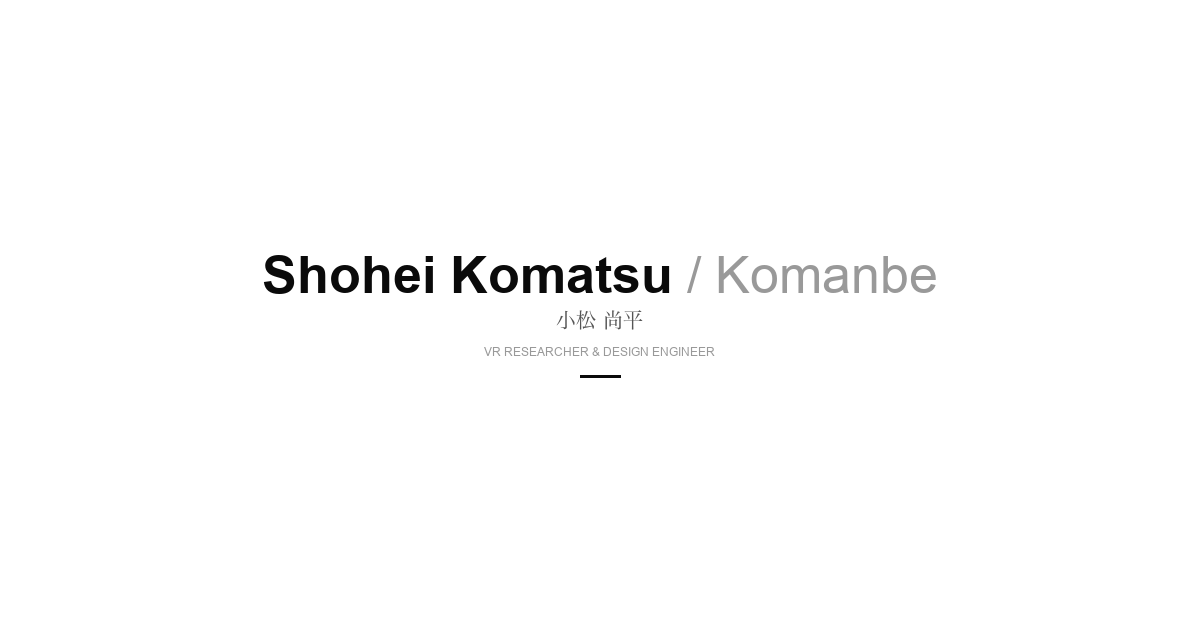
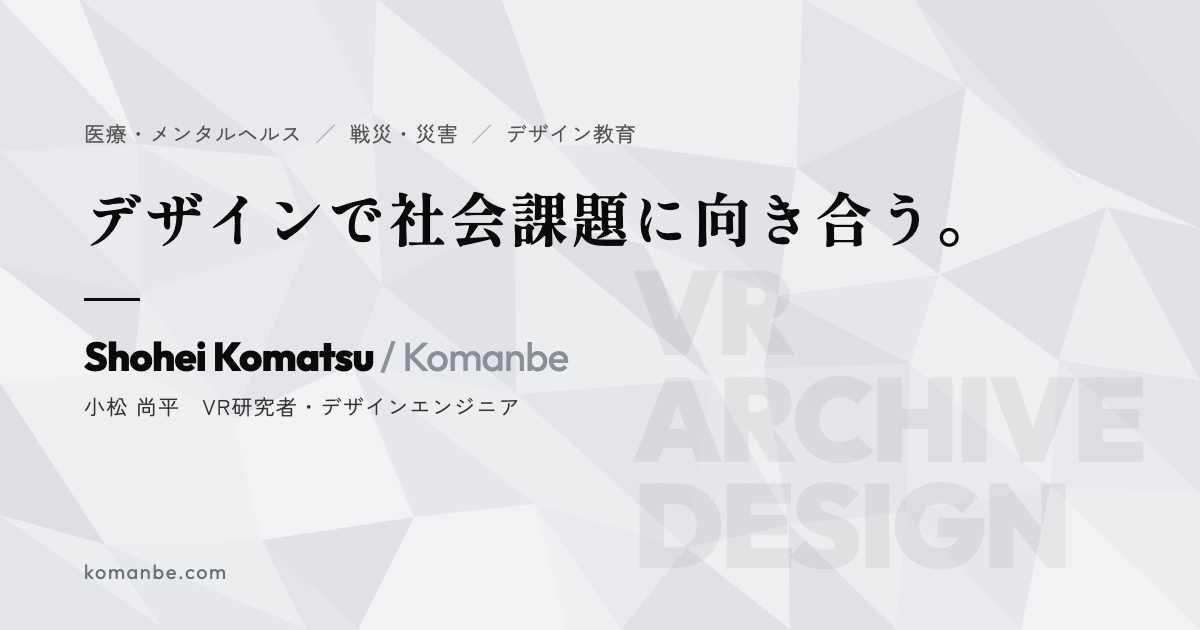
New OGP images and descriptions

diff --git a/index.html b/index.html
@@ -4,19 +4,22 @@
 <meta charset="UTF-8">
 <meta name="viewport" content="width=device-width, initial-scale=1.0">
 <title>小松尚平 / Shohei Komatsu — VR研究者 / デザインエンジニア</title>
-<meta name="description" content="小松尚平（こまつしょうへい）— VR研究者・デザインエンジニア。東京大学特任研究員／高知大学医学部特任講師／BiPSEE CPO。医療・メンタルヘルス・戦災・災害の領域でVR・AIを活用した研究開発。VRデジタル療法・戦災VR。">
+<meta name="description" content="小松尚平（VR研究者・デザインエンジニア）。東京大学大学院 情報学環 特任研究員。医療・メンタルヘルス、戦災・デジタルアーカイブの研究開発と、デザインの実践・教育に取り組んでいます。">
 <meta name="keywords" content="小松尚平,Shohei Komatsu,komanbe,VR研究者,デザインエンジニア,VRデジタル療法,戦災VR,東京大学,高知大学,BiPSEE,デザインシップ,VR Digital Therapeutics,War Damage VR">
-<meta property="og:title" content="小松尚平 / Shohei Komatsu — VR Researcher & Design Engineer">
-<meta property="og:description" content="小松尚平 — VR研究者 / デザインエンジニア。東京大学特任研究員。医療・メンタルヘルス・戦災・災害の領域でVR・AIを活用した研究開発。">
-<meta property="og:image" content="https://komanbe.com/ogp.png">
+<meta property="og:title" content="小松尚平 / Shohei Komatsu — デザインで社会課題に向き合う">
+<meta property="og:description" content="小松尚平（VR研究者・デザインエンジニア）。東京大学大学院 情報学環 特任研究員。医療・メンタルヘルス、戦災・デジタルアーカイブの研究開発と、デザインの実践・教育に取り組んでいます。">
+<meta property="og:image" content="https://komanbe.com/ogp.png?v=2">
+<meta property="og:image:width" content="1200">
+<meta property="og:image:height" content="630">
+<meta property="og:image:alt" content="デザインで社会課題に向き合う。Shohei Komatsu / Komanbe">
 <meta property="og:url" content="https://komanbe.com/">
 <meta property="og:type" content="website">
 <meta property="og:site_name" content="小松尚平 / Shohei Komatsu">
 <meta property="og:locale" content="ja_JP">
 <meta name="twitter:card" content="summary_large_image">
-<meta name="twitter:title" content="小松尚平 / Shohei Komatsu — VR Researcher & Design Engineer">
-<meta name="twitter:description" content="小松尚平 — VR研究者 / デザインエンジニア。東京大学特任研究員。医療・メンタルヘルス・戦災・災害の領域でVR・AIを活用した研究開発。">
-<meta name="twitter:image" content="https://komanbe.com/ogp.png">
+<meta name="twitter:title" content="小松尚平 / Shohei Komatsu — デザインで社会課題に向き合う">
+<meta name="twitter:description" content="小松尚平（VR研究者・デザインエンジニア）。東京大学大学院 情報学環 特任研究員。医療・メンタルヘルス、戦災・デジタルアーカイブの研究開発と、デザインの実践・教育に取り組んでいます。">
+<meta name="twitter:image" content="https://komanbe.com/ogp.png?v=2">
 <link rel="canonical" href="https://komanbe.com/">
 <script type="application/ld+json">
 {"@context":"https://schema.org","@type":"Person","name":"小松尚平","alternateName":["Shohei Komatsu","komanbe"],"url":"https://komanbe.com/","jobTitle":["VR研究者","デザインエンジニア","東京大学 特任研究員","高知大学医学部 特任講師","BiPSEE CPO"],"affiliation":[{"@type":"Organization","name":"東京大学"},{"@type":"Organization","name":"高知大学医学部"},{"@type":"Organization","name":"BiPSEE"},{"@type":"Organization","name":"デザインシップ"}],"sameAs":["https://x.com/komanbe","https://www.linkedin.com/in/komanbe/","https://researchmap.jp/komanbe","https://scholar.google.com/citations?user=v5U4ES4AAAAJ","https://www.instagram.com/komanbe/","https://www.facebook.com/komanbe/","https://note.com/komanbe430","https://www.threads.com/@komanbe"],"knowsAbout":["VR Digital Therapeutics","War Damage VR","Information Design","XR Experience Design"],"image":"https://komanbe.com/ogp.png"}

diff --git a/wardamagevr/index.html b/wardamagevr/index.html
@@ -5,6 +5,18 @@
 <meta name="viewport" content="width=device-width, initial-scale=1.0">
 <title>戦災VR — Shohei Komatsu</title>
 <meta name="description" content="戦災の写真や3Dデータの中を、3Dスキャンした自分のアバターで歩けるVR。東京大学大学院 渡邉英徳研究室。">
+<meta property="og:title" content="戦災VR — Shohei Komatsu">
+<meta property="og:description" content="戦災の写真や3Dデータの中を、3Dスキャンした自分のアバターで歩けるVR。東京大学大学院 渡邉英徳研究室。">
+<meta property="og:image" content="https://komanbe.com/wardamagevr/img/ogp.jpg">
+<meta property="og:image:width" content="1200">
+<meta property="og:image:height" content="630">
+<meta property="og:url" content="https://komanbe.com/wardamagevr/">
+<meta property="og:type" content="article">
+<meta property="og:site_name" content="小松尚平 / Shohei Komatsu">
+<meta property="og:locale" content="ja_JP">
+<meta name="twitter:card" content="summary_large_image">
+<meta name="twitter:title" content="戦災VR — Shohei Komatsu">
+<meta name="twitter:image" content="https://komanbe.com/wardamagevr/img/ogp.jpg">
 <link rel="preconnect" href="https://fonts.googleapis.com">
 <link rel="preconnect" href="https://fonts.gstatic.com" crossorigin>
 <link href="https://fonts.googleapis.com/css2?family=Outfit:wght@300;400;500;600;700;800;900&family=Zen+Kaku+Gothic+New:wght@300;400;500;700;900&family=Shippori+Mincho+B1:wght@400;500;600;700;800&family=Cormorant+Garamond:ital,wght@1,300;1,400&family=Yuji+Mai&family=Sora:wght@300;400;500;600;700;800&family=IBM+Plex+Mono:wght@400;500;600&display=swap" rel="stylesheet">
